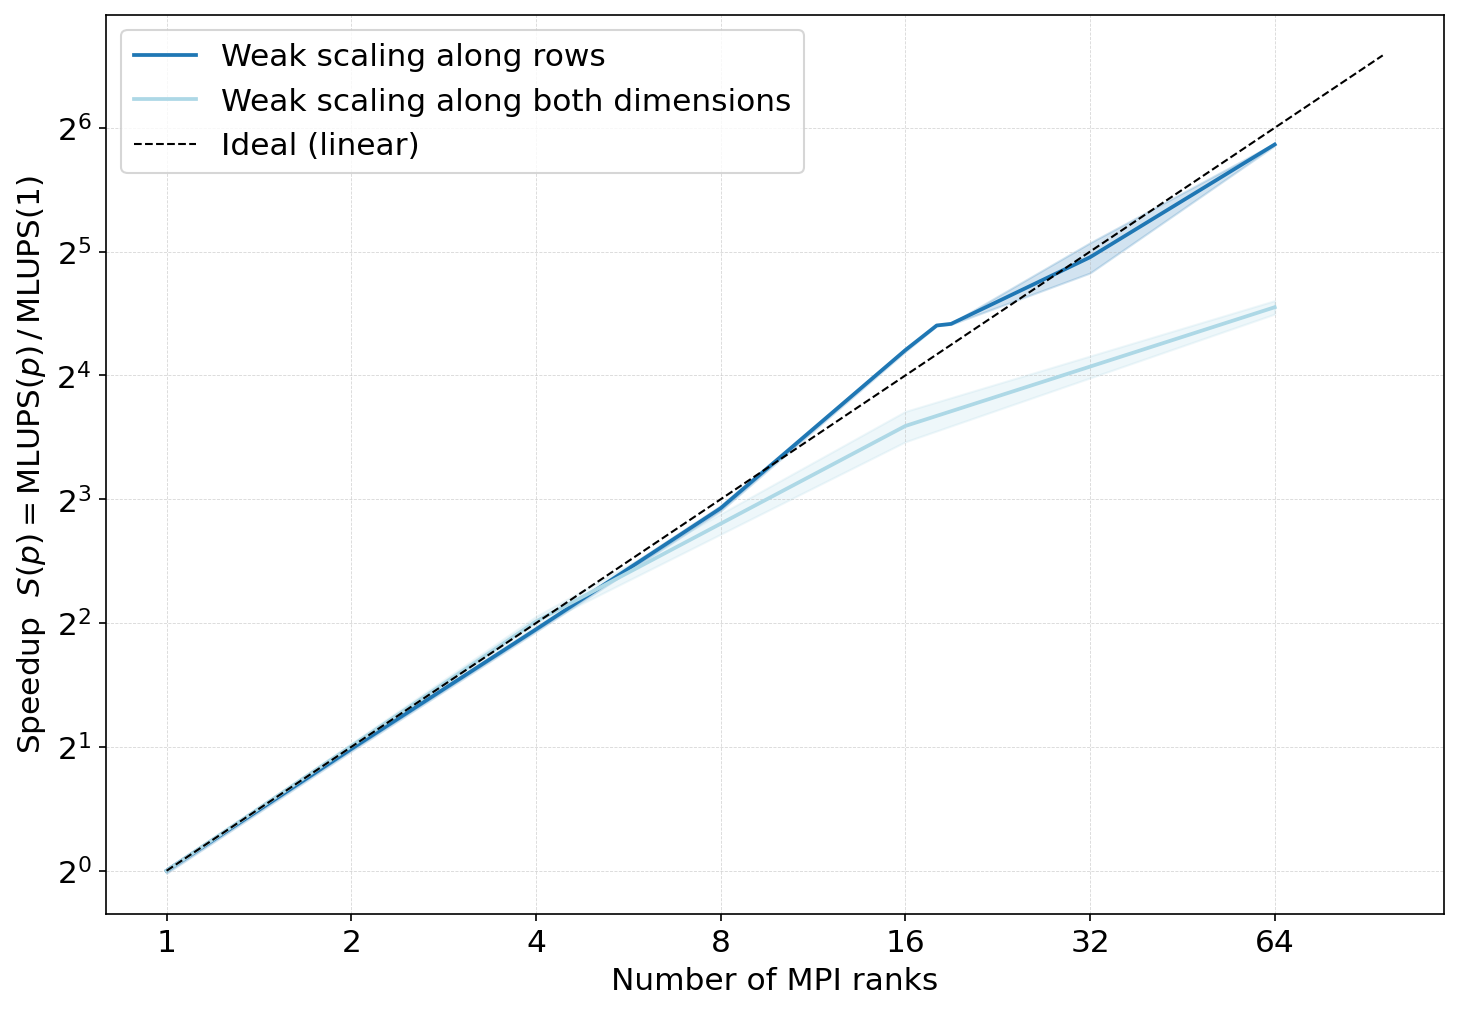
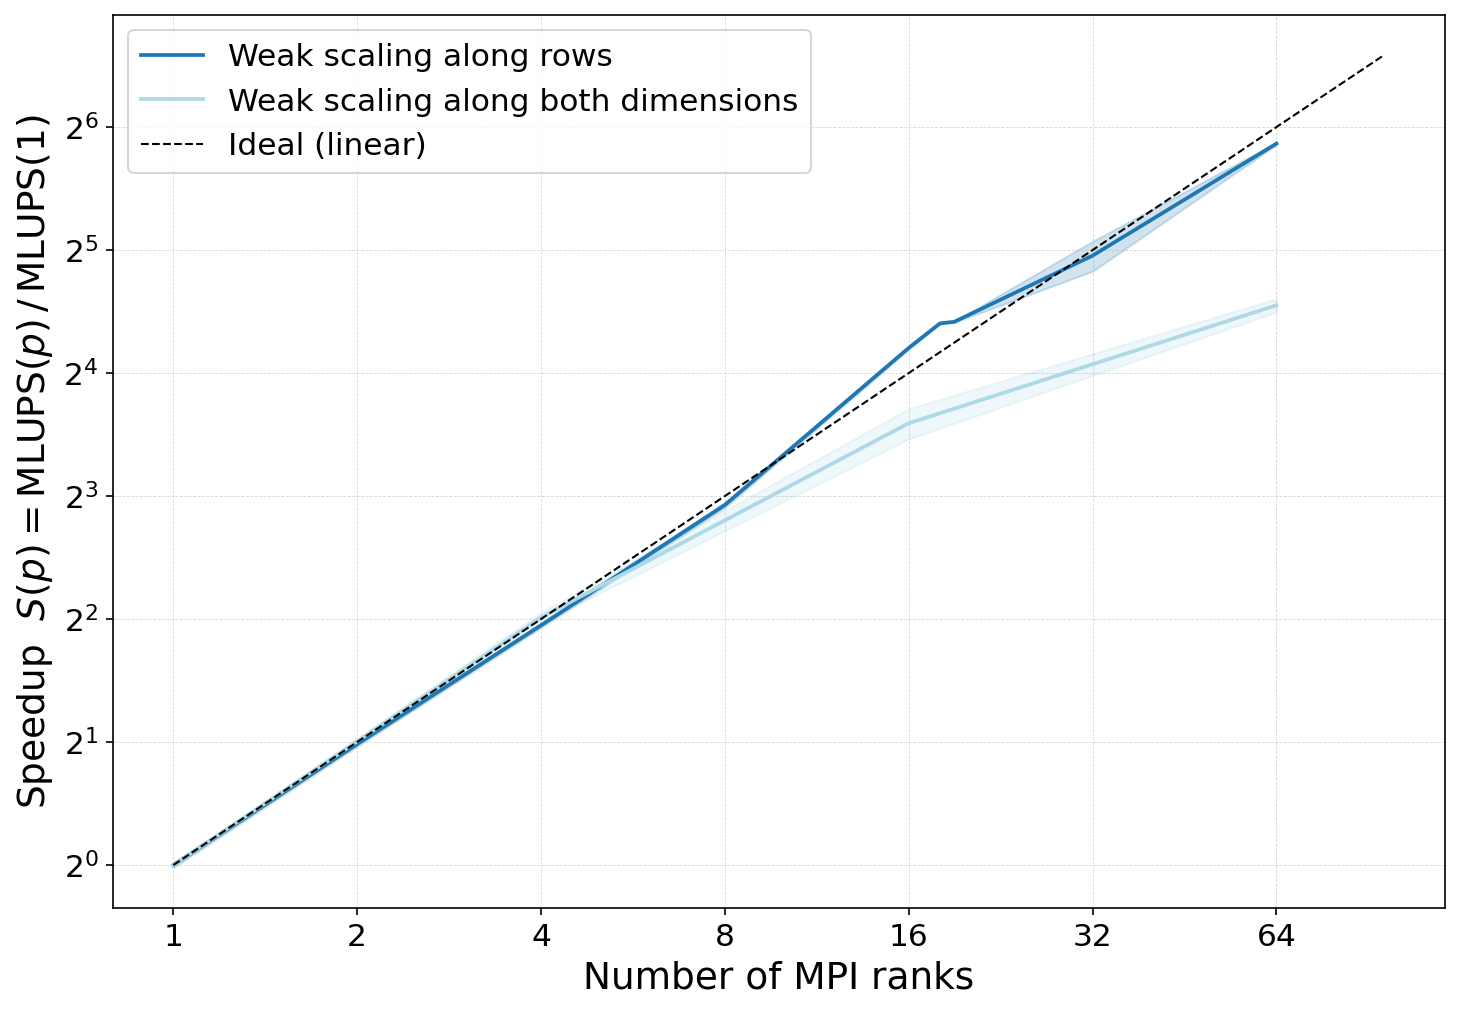
change label font size all plots

diff --git a/viz/mpi_scaling_cart.py b/viz/mpi_scaling_cart.py
@@ -21,6 +21,8 @@ os.makedirs(FOLDER, exist_ok=True)
 plt.rcParams.update({
     "font.size": 15
 })
+LABEL_SIZE = 18
+
 
 # ── Configuration ─────────────────────────────────────────────────────────────
 CSV   = "./out/cart_strong_scaling_mpi/results.csv"
@@ -59,8 +61,8 @@ ax.set_xscale("log", base=2)
 ax.set_yscale("log", base=2)
 ax.set_xticks(ranks)
 ax.set_xticklabels(ranks)
-ax.set_xlabel("Number of MPI ranks")
-ax.set_ylabel(r"Speedup  $S(p) = \mathrm{MLUPS}(p)\,/\,\mathrm{MLUPS}(1)$")
+ax.set_xlabel("Number of MPI ranks", fontsize=LABEL_SIZE)
+ax.set_ylabel(r"Speedup  $S(p) = \mathrm{MLUPS}(p)\,/\,\mathrm{MLUPS}(1)$", fontsize=LABEL_SIZE)
 #ax.set_title("Strong scaling — MPI LBM (1600x800, 60 000 steps)")
 ax.set_title("")
 ax.legend(title=None)
@@ -109,8 +111,8 @@ ax2.set_xscale("log", base=2)
 ax2.set_xticks([1,2,4,8,16,32,64])
 ax2.set_xticklabels([1,2,4,8,16,32,64])
 ax2.set_ylim(0, 1.2)
-ax2.set_xlabel("Number of MPI ranks")
-ax2.set_ylabel(r"Parallel efficiency  $E(p) = T_1 / T_p$")
+ax2.set_xlabel("Number of MPI ranks", fontsize=LABEL_SIZE)
+ax2.set_ylabel(r"Parallel efficiency  $E(p) = T_1 / T_p$", fontsize=LABEL_SIZE)
 #ax2.set_title("Weak scaling — MPI LBM (80K lattice points per rank, 60 000 steps)")
 ax2.set_title("")
 ax2.legend(title=None)
@@ -149,8 +151,8 @@ ax3.set_xscale("log", base=2)
 ax3.set_yscale("log", base=2)
 ax3.set_xticks([1,2,4,8,16,32,64])
 ax3.set_xticklabels([1,2,4,8,16,32,64])
-ax3.set_xlabel("Number of MPI ranks")
-ax3.set_ylabel(r"Speedup  $S(p) = \mathrm{MLUPS}(p)\,/\,\mathrm{MLUPS}(1)$")
+ax3.set_xlabel("Number of MPI ranks", fontsize=LABEL_SIZE)
+ax3.set_ylabel(r"Speedup  $S(p) = \mathrm{MLUPS}(p)\,/\,\mathrm{MLUPS}(1)$", fontsize=LABEL_SIZE)
 #ax3.set_title("Weak scaling — MPI LBM (80K lattice points per rank, 60 000 steps)")
 ax3.set_title("")
 ax3.legend(title=None)

diff --git a/viz/mpi_scaling_row_wise.py b/viz/mpi_scaling_row_wise.py
@@ -21,6 +21,7 @@ os.makedirs(FOLDER, exist_ok=True)
 plt.rcParams.update({
     "font.size": 15
 })
+LABEL_SIZE = 18
 
 # ── Configuration ─────────────────────────────────────────────────────────────
 CSV   = "./out/strong_scaling_mpi/results.csv"
@@ -59,8 +60,8 @@ ax.set_xscale("log", base=2)
 ax.set_yscale("log", base=2)
 ax.set_xticks(ranks)
 ax.set_xticklabels(ranks)
-ax.set_xlabel("Number of MPI ranks")
-ax.set_ylabel(r"Speedup  $S(p) = \mathrm{MLUPS}(p)\,/\,\mathrm{MLUPS}(1)$")
+ax.set_xlabel("Number of MPI ranks", fontsize=LABEL_SIZE)
+ax.set_ylabel(r"Speedup  $S(p) = \mathrm{MLUPS}(p)\,/\,\mathrm{MLUPS}(1)$", fontsize=LABEL_SIZE)
 #ax.set_title("Strong scaling — MPI LBM (1600x800, 60 000 steps)")
 ax.set_title("")
 ax.legend(title=None)
@@ -109,8 +110,8 @@ ax2.set_xscale("log", base=2)
 ax2.set_xticks([1,2,4,8,16,32,64])
 ax2.set_xticklabels([1,2,4,8,16,32,64])
 ax2.set_ylim(0, 1.2)
-ax2.set_xlabel("Number of MPI ranks")
-ax2.set_ylabel(r"Parallel efficiency  $E(p) = T_1 / T_p$")
+ax2.set_xlabel("Number of MPI ranks", fontsize=LABEL_SIZE)
+ax2.set_ylabel(r"Parallel efficiency  $E(p) = T_1 / T_p$", fontsize=LABEL_SIZE)
 #ax2.set_title("Weak scaling — MPI LBM (80K lattice points per rank, 60 000 steps)")
 ax2.set_title("")
 ax2.legend(title=None)
@@ -149,8 +150,8 @@ ax3.set_xscale("log", base=2)
 ax3.set_yscale("log", base=2)
 ax3.set_xticks([1,2,4,8,16,32,64])
 ax3.set_xticklabels([1,2,4,8,16,32,64])
-ax3.set_xlabel("Number of MPI ranks")
-ax3.set_ylabel(r"Speedup  $S(p) = \mathrm{MLUPS}(p)\,/\,\mathrm{MLUPS}(1)$")
+ax3.set_xlabel("Number of MPI ranks", fontsize=LABEL_SIZE)
+ax3.set_ylabel(r"Speedup  $S(p) = \mathrm{MLUPS}(p)\,/\,\mathrm{MLUPS}(1)$", fontsize=LABEL_SIZE)
 #ax3.set_title("Weak scaling — MPI LBM (80K lattice points per rank, 60 000 steps)")
 ax3.set_title("")
 ax3.legend(title=None)
